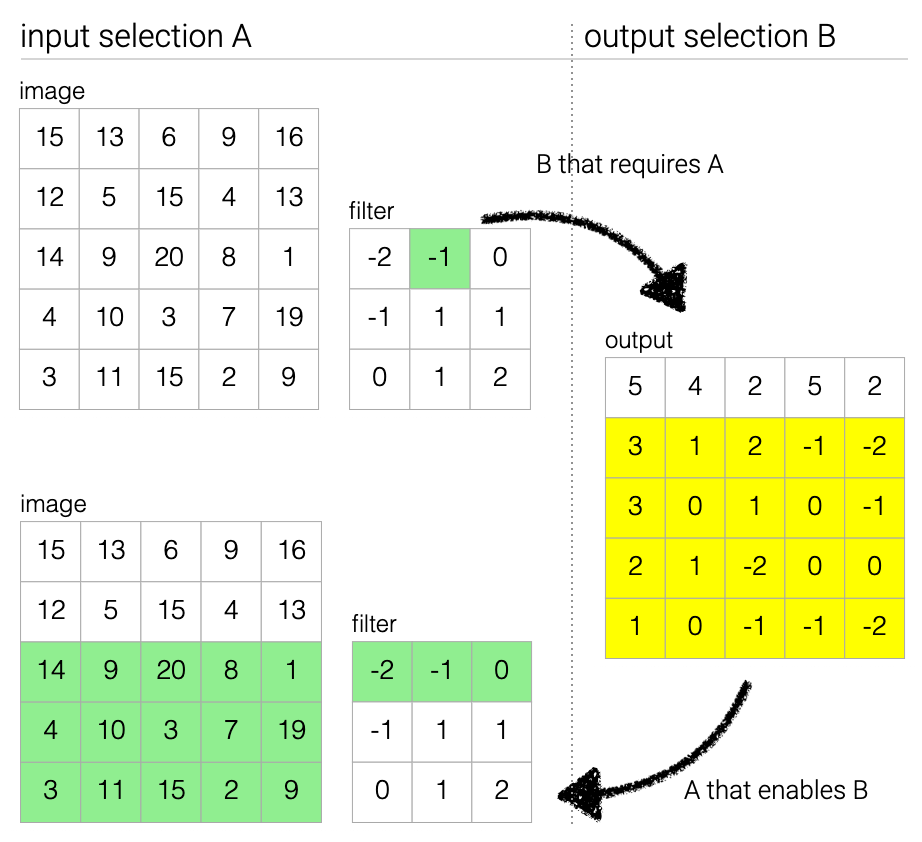
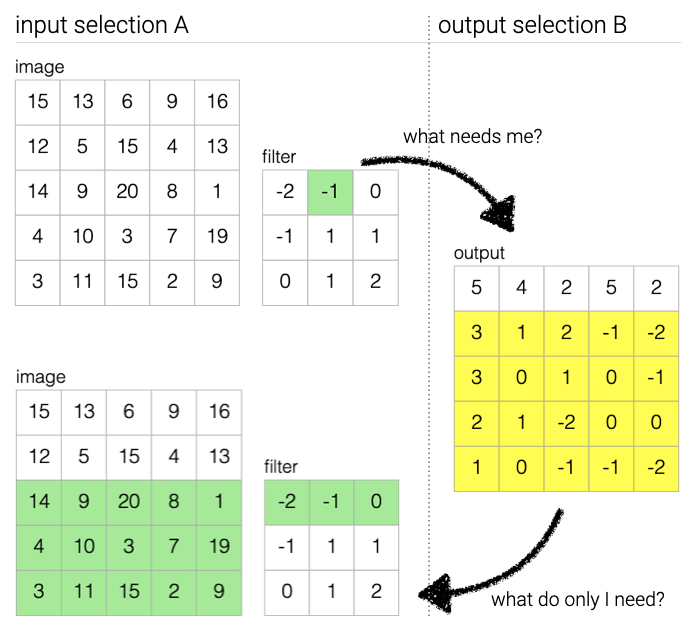
Tweaks to 4-relations.

Changed region(s): [[0.0, 0.0298, 0.96, 0.5063], [0.0, 0.5658, 0.6, 0.9828], [0.6, 0.2978, 0.99, 0.9828]]

diff --git a/popl2022/sec/toolkit.tex b/popl2022/sec/toolkit.tex
@@ -3,7 +3,7 @@
 
 The second problem we set out in \secref{introduction} was the idea of linking selections between outputs computed from the same data. (We call two such outputs \emph{cognate}.) This so-called ``brushing and linking'' problem~\cite{becker87} has been extensive studied as an interaction paradigm in data visualisation, with the emphasis on visualisation techniques and its value as a comprehension tool, rather than on infrastructure for automation. Intuitively, brushing and linking has a bidirectional flavour: one must consider how dependencies flow backward from a selection in one output to a selection $v$ in the common data, and then forward from the selected data $v$ to a corresponding selection in the other output. A natural question then is whether the bidirectional dependency analysis established in \secref{data-dependencies} can supply the information required to support an automated solution to brushing and linking.
 
-An immediate problem is that the flavour of the forward dependency required here differs from that provided by the forward analysis $\evalFwdF{T}$ defined in \secref{data-dependencies}. That was able to answer the question: what can we compute given only the data selected in $v$? But to identify the related data in another output, we must determine not what the input selection $v$ is \emph{sufficient} for, but what it is \emph{necessary} for: those parts of the other output that depend on $v$. In fact the question is a kind of dual: what would we \emph{not} be able to compute if we \emph{lacked} the resources in $v$?
+An immediate problem is that the flavour of the forward dependency required here differs from that provided by the forward analysis $\evalFwdF{T}$ defined in \secref{data-dependencies}. That was able to answer the question: what can we compute given only the data selected in $v$? But to identify the related data in another output, we must determine not what the input selection $v$ is \emph{sufficient} for, but what it is \emph{necessary} for: those parts of the other output that depend on $v$. In fact the question is a kind of dual: what would we \emph{not} be able to compute if the data in $v$ were \emph{unavailable}?
 
 As well as intuitively computing the wrong information, we can also understand the problem in terms of compositionality if we recall that Galois connections themselves are morphisms. Suppose $\Ann{V}_1$ and $\Ann{V}_2$ are the lattices of selections for two views computed from shared data, and $\Ann{D}$ is the lattice of selections for the common data. Using the procedure given in \secref{data-dependencies}, we can obtain two Galois dependency analyses $f: \Ann{V}_1 \to \Ann{D}$ and $g: \Ann{V}_2 \to \Ann{D}$ as shown in \figref{toolkit:de-morgan:non-composable} below:
 
@@ -16,7 +16,7 @@ As well as intuitively computing the wrong information, we can also understand t
 
 We now show how the idea of the \emph{complement} of a selection can be used to invert $g$ to yield a Galois connection $\dual{g}$ that it is composable with $f$, and moreover that computes a dependency relation corresponding to necessity rather than sufficiency. By composing $f$ with $\dual{g}$ we obtain a Galois connection linking $\Ann{V}_1$ to $\Ann{V}_2$ via $\Ann{D}$. We will also use this understanding to contrast the approach presented in this paper with prior work on program slicing based on Galois connections (\secref{toolkit:galois-slicing}).
 
-First we extend the setting in \secref{data-dependencies} from lattices to Boolean lattices (or Boolean algebras) $\Ann{A}= \BoolLattice{\Ann{A}}{\top}{\bot}{\meet}{\join}{\neg}$, which are lattices equipped with an involution $\neg: \Ann{A} \to \Ann{A}$ called \emph{complement}. Boolean algebras satisfy complementation laws $x \meet \neg x = \bot$ and $x \join \neg x = \top$ and De Morgan laws $\neg x \meet \neg y = \neg(x \join y)$ and $\neg x \join \neg y = \neg(x \meet y)$. If $\Ann{A}$ is a Boolean algebra, then $\Sel{\raw{v}}{A}$ is also a Boolean algebra, with the Boolean operations, and in particular $\neg_{\raw{v}}: \Sel{\raw{v}}{A} \to \Sel{\raw{v}}{A}$, defined pointwise.
+First we extend the setting in \secref{data-dependencies} from lattices to Boolean lattices (or Boolean algebras) $\Ann{A}= \BoolLattice{\Ann{A}}{\top}{\bot}{\meet}{\join}{\neg}$, which are lattices equipped with an involution $\neg: \Ann{A} \to \Ann{A}$ called \emph{complement}. Boolean algebras satisfy complementation laws $x \meet \neg x = \bot$ and $x \join \neg x = \top$ and De Morgan laws $\neg x \meet \neg y = \neg(x \join y)$ and $\neg x \join \neg y = \neg(x \meet y)$. If $\Ann{A}$ is a Boolean algebra, then $\Sel{\raw{v}}{A}$ is also a Boolean algebra, with the Boolean operations, and in particular $\neg_{\raw{v}}: \Sel{\raw{v}}{A} \to \Sel{\raw{v}}{A}$, defined pointwise. We add an additional distinguished element $\blackhole$ to the selectable values to serve as the negation of $\hole$.
 
 \input{fig/example/convolve}
 

diff --git a/popl2022/fig/example/convolve-viz.tex b/popl2022/fig/example/convolve-viz.tex
@@ -1,16 +1,16 @@
 \begin{figure}
    \begin{subfigure}{0.53\textwidth}
-      {\includegraphics[scale=0.38]{fig/example/4-relations-1.png}}
+      {\includegraphics[scale=0.5]{fig/example/4-relations-1.png}}
       \vspace{2mm}
       \caption{Galois dependency $\evalGC{T}$}
       \label{fig:example:convolve-viz:galois-dependency}
    \end{subfigure}
    \begin{subfigure}{0.46\textwidth}
-      {\includegraphics[scale=0.38]{fig/example/4-relations-2.png}}
+      {\includegraphics[scale=0.5]{fig/example/4-relations-2.png}}
       \vspace{2mm}
       \caption{De Morgan dual $\dual{\evalGC{T}}$}
       \label{fig:example:convolve-viz:de-morgan-dual}
    \end{subfigure}
-   \caption{Illustration of Galois dependency and its De Morgan dual}
+   \caption{Upper and lower pairs are dual; left and right pairs are adjoint}
    \label{fig:example:convolve-viz}
 \end{figure}

diff --git a/popl2022/tex/macros.tex b/popl2022/tex/macros.tex
@@ -17,6 +17,7 @@
 \newcommand*{\smalltriangleleft}{\triangleleft}
 
 \newcommand*{\hole}{\square}
+\newcommand*{\blackhole}{\blacksquare}
 \newcommand\grayuline{\bgroup\markoverwith{\textcolor{gray}{\rule[-0.9ex]{2pt}{0.4pt}}}\ULon}
 % \newcommand*{\del}[1]{\grayuline{\textcolor{gray}{\smash{#1}}}}
 \newcommand*{\TT}{\mathsf{tt}}
